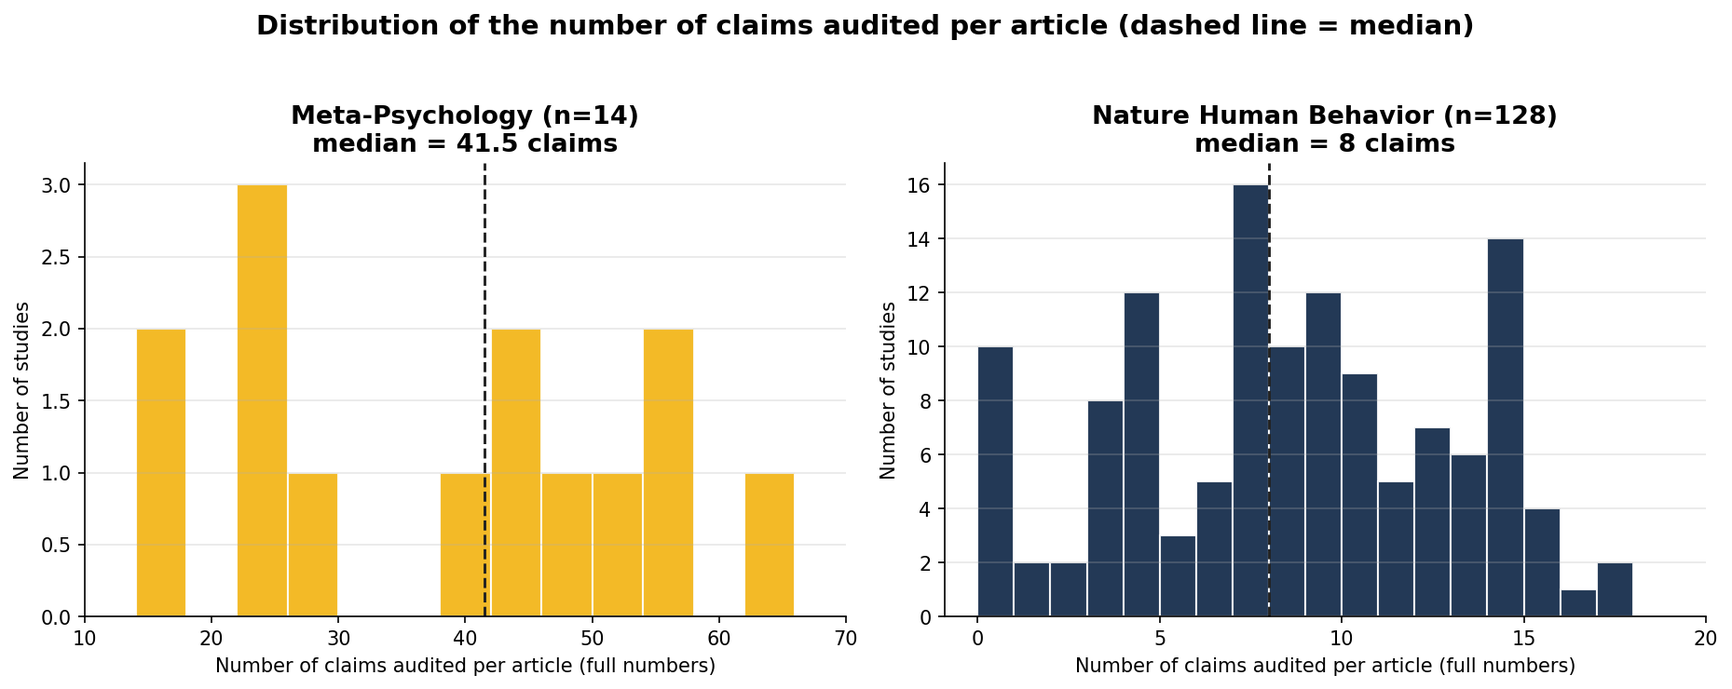
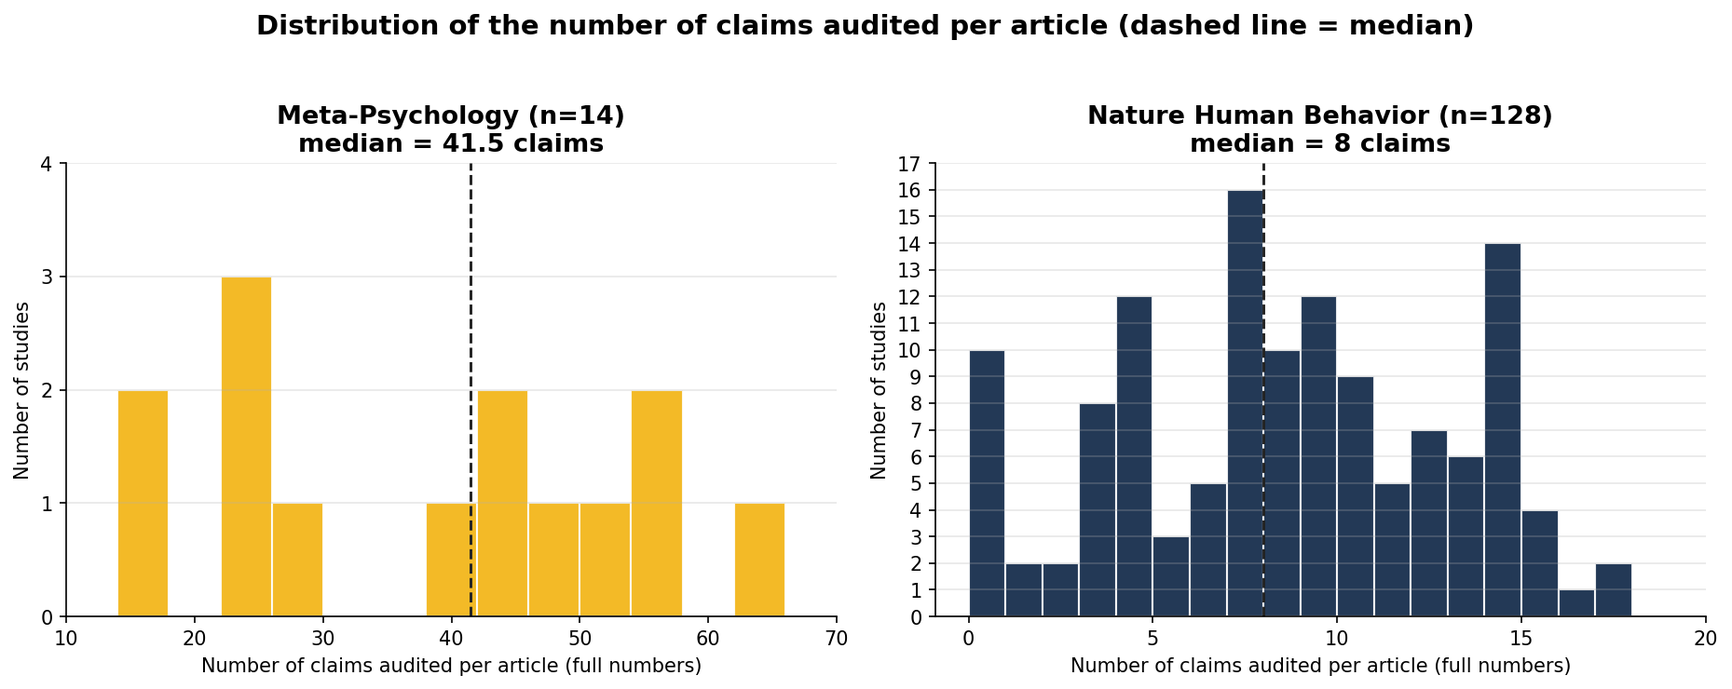
Fix figure numbering; render each study as a rectangle in open-data/outcome unit charts; integer-only y-axis on claims histogram

diff --git a/MetaPsych_vs_NHB_Reproducibility_Comparison_APA7.html b/MetaPsych_vs_NHB_Reproducibility_Comparison_APA7.html
@@ -182,17 +182,17 @@ body { position:relative; }
 <h3>Open data availability</h3>
 <p>Among 14 audited <i>Meta-Psychology</i> studies, 6 carried explicit open-data badges; the remaining studies were simulations for which raw data are not applicable. Among the 128 audited <i>NHB</i> articles, 72 (56%) exposed a direct, machine-downloadable data/code link, 55 (43%) supplied an availability statement without a direct link, and 1 gave no statement.</p>
 <div class="figure"><img src="fig2_open_data.png" alt="Open data availability">
-<p class="figcap"><b>Figure 1.</b> Open data availability by journal, shown as the share (percentage) of audited studies within each journal, with the exact count in parentheses at each bar tip &mdash; this makes the two journals comparable despite the small <i>Meta-Psychology</i> corpus. Note that several <i>Meta-Psychology</i> studies are simulations in which raw data are not applicable, so no-data should not be read as a transparency failure.</p></div>
+<p class="figcap"><b>Figure 2.</b> Open data availability by journal, shown as the share (percentage) of audited studies within each journal, with the exact count in parentheses at each bar tip &mdash; this makes the two journals comparable despite the small <i>Meta-Psychology</i> corpus. Note that several <i>Meta-Psychology</i> studies are simulations in which raw data are not applicable, so no-data should not be read as a transparency failure.</p></div>
 
 <h3>For how many did the check work, and how many had issues or big problems?</h3>
-<p>For <i>Meta-Psychology</i>, where a genuine computational reproduction was possible, 12 studies reproduced near-exactly and 2 reproduced only partially; 0 did not reproduce and 0 hit technical blockers. These are genuinely re-ran analyses, so &ldquo;reproduced&rdquo; is a strong certification; for these <i>Meta-Psychology</i> studies the data and code were available, so any failure falls under the &ldquo;different numbers come out&rdquo; category (partially reproduced or not reproduced) or a technical blocker, rather than &ldquo;data could not be shared.&rdquo; For <i>NHB</i>, the audit established data/code availability rather than re-execution: 72 offered a working direct link (the check usable), 55 offered only a statement (usable data not directly reachable &mdash; an issue), and 1 offered no availability at all (a bigger problem). These <i>NHB</i> cases are predominantly &ldquo;data could not be shared&rdquo; availability barriers; because the <i>NHB</i> check did not re-execute the code, no &ldquo;different numbers come out&rdquo; verdicts are reported for it (Table&nbsp;1). Figure&nbsp;2 contrasts these two outcome schemes.</p>
+<p>For <i>Meta-Psychology</i>, where a genuine computational reproduction was possible, 12 studies reproduced near-exactly and 2 reproduced only partially; 0 did not reproduce and 0 hit technical blockers. These are genuinely re-ran analyses, so &ldquo;reproduced&rdquo; is a strong certification; for these <i>Meta-Psychology</i> studies the data and code were available, so any failure falls under the &ldquo;different numbers come out&rdquo; category (partially reproduced or not reproduced) or a technical blocker, rather than &ldquo;data could not be shared.&rdquo; For <i>NHB</i>, the audit established data/code availability rather than re-execution: 72 offered a working direct link (the check usable), 55 offered only a statement (usable data not directly reachable &mdash; an issue), and 1 offered no availability at all (a bigger problem). These <i>NHB</i> cases are predominantly &ldquo;data could not be shared&rdquo; availability barriers; because the <i>NHB</i> check did not re-execute the code, no &ldquo;different numbers come out&rdquo; verdicts are reported for it (Table&nbsp;1). Figure&nbsp;3 contrasts these two outcome schemes.</p>
 <div class="figure"><img src="fig3_outcomes.png" alt="Outcomes by journal">
-<p class="figcap"><b>Figure 2.</b> Outcomes of the audit for each journal, shown as the share (percentage) of audited studies within each journal with the exact count at each bar tip: for <i>Meta-Psychology</i>, how many reproductions worked (reproduced), partially reproduced, or failed/technical; for <i>NHB</i>, how many articles gave a direct working link, a statement only, or no availability. Because the <i>Meta-Psychology</i> corpus is small (n&nbsp;=&nbsp;14), percentages are reported alongside exact counts so the two are not misleadingly compared.</p></div>
+<p class="figcap"><b>Figure 3.</b> Outcomes of the audit for each journal, shown as the share (percentage) of audited studies within each journal with the exact count at each bar tip: for <i>Meta-Psychology</i>, how many reproductions worked (reproduced), partially reproduced, or failed/technical; for <i>NHB</i>, how many articles gave a direct working link, a statement only, or no availability. Because the <i>Meta-Psychology</i> corpus is small (n&nbsp;=&nbsp;14), percentages are reported alongside exact counts so the two are not misleadingly compared.</p></div>
 
 <h3>Distribution of the number of claims</h3>
-<p>The two audits differ in depth: <i>Meta-Psychology</i> reproductions re-ran shipped code and therefore audited far more claims per article (median&nbsp;41.5; range 16&ndash;65 full claims), whereas the <i>NHB</i> checks verified the key reported numbers against the PDF (median&nbsp;8.0; range 0&ndash;17 full claims). Figure&nbsp;3 shows the distribution of the full (integer) number of claims audited per article for each journal, with the median marked by a dashed line.</p>
+<p>The two audits differ in depth: <i>Meta-Psychology</i> reproductions re-ran shipped code and therefore audited far more claims per article (median&nbsp;41.5; range 16&ndash;65 full claims), whereas the <i>NHB</i> checks verified the key reported numbers against the PDF (median&nbsp;8.0; range 0&ndash;17 full claims). Figure&nbsp;4 shows the distribution of the full (integer) number of claims audited per article for each journal, with the median marked by a dashed line.</p>
 <div class="figure"><img src="fig4_claims_hist.png" alt="Distribution of the number of claims">
-<p class="figcap"><b>Figure 3.</b> Histograms of the number of claims audited per article, for <i>Meta-Psychology</i> (left) and <i>Nature Human Behavior</i> (right), plotted as full numbers with the median indicated by a dashed line. The <i>Meta-Psychology</i> audits re-ran full analyses and consequently audited more claims per article (median&nbsp;41.5) than the <i>NHB</i> verifications (median&nbsp;8.0).</p></div>
+<p class="figcap"><b>Figure 4.</b> Histograms of the number of claims audited per article, for <i>Meta-Psychology</i> (left) and <i>Nature Human Behavior</i> (right), plotted as full numbers with the median indicated by a dashed line. The <i>Meta-Psychology</i> audits re-ran full analyses and consequently audited more claims per article (median&nbsp;41.5) than the <i>NHB</i> verifications (median&nbsp;8.0).</p></div>
 
 <h2 id="discussion">Discussion</h2>
 <p>The scholar-led journal in our sample (<i>Meta-Psychology</i>) performs well on the transparency metrics we measured. Its editorial policies couple publication to the deposition of data and code, and its reproducibility reviews&mdash;which we re-performed here with independent code re-execution&mdash;publicly certify what does and does not reproduce. Of the fourteen re-audited articles, twelve reproduced near-exactly and two reproduced only partially, underscoring that the mandated openness plus re-execution (here by a deep LLM) makes verification concrete, while confirming that genuinely independent re-execution remains the gold standard.</p>
@@ -203,9 +203,9 @@ body { position:relative; }
 
 <h2 id="results-s2">Study 2: Citation and Cost Analyses</h2>
 <h3>Citing behaviour (OpenAlex)</h3>
-<p>We complemented the reproducibility audit with a bibliometric and cost analysis across the same 14 <i>Meta-Psychology</i> and 128 <i>NHB</i> studies (Study&nbsp;2). Citation counts were retrieved from the OpenAlex scholarly database for each audited article by its DOI (OpenAlex, 2026). Across the audited studies, <i>NHB</i> is far more cited than <i>Meta-Psychology</i>: its articles accrued 16716 citations in total (median&nbsp;83.5), versus 276 (median&nbsp;10.0) for <i>Meta-Psychology</i>. Figure&nbsp;4 compares the citation distributions (on a symlog scale) between the two journals overall and broken down by audit outcome. Citation counts do not track the reproducibility ranking we observed in Study&nbsp;1: the journal with the stronger reproducibility practices is the one with far fewer citations, and within each journal citation numbers are broadly similar across reproducibility outcomes.</p>
+<p>We complemented the reproducibility audit with a bibliometric and cost analysis across the same 14 <i>Meta-Psychology</i> and 128 <i>NHB</i> studies (Study&nbsp;2). Citation counts were retrieved from the OpenAlex scholarly database for each audited article by its DOI (OpenAlex, 2026). Across the audited studies, <i>NHB</i> is far more cited than <i>Meta-Psychology</i>: its articles accrued 16716 citations in total (median&nbsp;83.5), versus 276 (median&nbsp;10.0) for <i>Meta-Psychology</i>. Figure&nbsp;5 compares the citation distributions (on a symlog scale) between the two journals overall and broken down by audit outcome. Citation counts do not track the reproducibility ranking we observed in Study&nbsp;1: the journal with the stronger reproducibility practices is the one with far fewer citations, and within each journal citation numbers are broadly similar across reproducibility outcomes.</p>
 <div class="figure"><img src="fig5_citations.png" alt="Citations by journal and outcome">
-<p class="figcap"><b>Figure 4.</b> Citation numbers (OpenAlex), shown on a symlog scale. Left: overall comparison between <i>Meta-Psychology</i> and <i>NHB</i>. Middle: <i>Meta-Psychology</i> citations split by audit outcome. Right: <i>NHB</i> citations split by data-availability outcome. Dashed labels give each group&rsquo;s median.</p></div>
+<p class="figcap"><b>Figure 5.</b> Citation numbers (OpenAlex), shown on a symlog scale. Left: overall comparison between <i>Meta-Psychology</i> and <i>NHB</i>. Middle: <i>Meta-Psychology</i> citations split by audit outcome. Right: <i>NHB</i> citations split by data-availability outcome. Dashed labels give each group&rsquo;s median.</p></div>
 <p>To characterise the 56 <i>NHB</i> articles whose data/code were not directly available (the 55 &ldquo;statement only&rdquo; plus the 1 with no statement), Table&nbsp;1 lists each one with the reason recorded in its audit. We distinguish two conceptually different reasons a study may not be reproducible: (a)&nbsp;<b>data or code could not be shared</b> &mdash; an availability barrier, where the material exists but is not directly reachable or obtainable; and (b)&nbsp;<b>different numbers come out</b> &mdash; a numerical failure, where, despite available data and code, re-execution yields different results from those reported. These are different problems with different remedies.</p>
 <table id="naTable">
 <thead><tr><th>Year</th><th>Study</th><th>Title</th><th>DOI</th><th>Availability</th><th>Reason (from audit)</th></tr></thead>

diff --git a/_build_final_report.py b/_build_final_report.py
@@ -368,17 +368,17 @@ body { position:relative; }
 <h3>Open data availability</h3>
 <p>Among @MPA@ audited <i>Meta-Psychology</i> studies, @@MPOD@@ carried explicit open-data badges; the remaining studies were simulations for which raw data are not applicable. Among the @NHBFT@ audited <i>NHB</i> articles, @@NHBP3@@ (@@NHBP3PCT@@%) exposed a direct, machine-downloadable data/code link, @@NHBP2@@ (@@NHBP2PCT@@%) supplied an availability statement without a direct link, and @@NHBP1@@ gave no statement.</p>
 <div class="figure"><img src="fig2_open_data.png" alt="Open data availability">
-<p class="figcap"><b>Figure 1.</b> Open data availability by journal, shown as the share (percentage) of audited studies within each journal, with the exact count in parentheses at each bar tip &mdash; this makes the two journals comparable despite the small <i>Meta-Psychology</i> corpus. Note that several <i>Meta-Psychology</i> studies are simulations in which raw data are not applicable, so no-data should not be read as a transparency failure.</p></div>
+<p class="figcap"><b>Figure 2.</b> Open data availability by journal, shown as the share (percentage) of audited studies within each journal, with the exact count in parentheses at each bar tip &mdash; this makes the two journals comparable despite the small <i>Meta-Psychology</i> corpus. Note that several <i>Meta-Psychology</i> studies are simulations in which raw data are not applicable, so no-data should not be read as a transparency failure.</p></div>
 
 <h3>For how many did the check work, and how many had issues or big problems?</h3>
-<p>For <i>Meta-Psychology</i>, where a genuine computational reproduction was possible, @MPOK@ studies reproduced near-exactly and @MPPAR@ reproduced only partially; @MPFAIL@ did not reproduce and @MPTECH@ hit technical blockers. These are genuinely re-ran analyses, so &ldquo;reproduced&rdquo; is a strong certification; for these <i>Meta-Psychology</i> studies the data and code were available, so any failure falls under the &ldquo;different numbers come out&rdquo; category (partially reproduced or not reproduced) or a technical blocker, rather than &ldquo;data could not be shared.&rdquo; For <i>NHB</i>, the audit established data/code availability rather than re-execution: @NHBP3@ offered a working direct link (the check usable), @NHBP2@ offered only a statement (usable data not directly reachable &mdash; an issue), and @NHBP1@ offered no availability at all (a bigger problem). These <i>NHB</i> cases are predominantly &ldquo;data could not be shared&rdquo; availability barriers; because the <i>NHB</i> check did not re-execute the code, no &ldquo;different numbers come out&rdquo; verdicts are reported for it (Table&nbsp;1). Figure&nbsp;2 contrasts these two outcome schemes.</p>
+<p>For <i>Meta-Psychology</i>, where a genuine computational reproduction was possible, @MPOK@ studies reproduced near-exactly and @MPPAR@ reproduced only partially; @MPFAIL@ did not reproduce and @MPTECH@ hit technical blockers. These are genuinely re-ran analyses, so &ldquo;reproduced&rdquo; is a strong certification; for these <i>Meta-Psychology</i> studies the data and code were available, so any failure falls under the &ldquo;different numbers come out&rdquo; category (partially reproduced or not reproduced) or a technical blocker, rather than &ldquo;data could not be shared.&rdquo; For <i>NHB</i>, the audit established data/code availability rather than re-execution: @NHBP3@ offered a working direct link (the check usable), @NHBP2@ offered only a statement (usable data not directly reachable &mdash; an issue), and @NHBP1@ offered no availability at all (a bigger problem). These <i>NHB</i> cases are predominantly &ldquo;data could not be shared&rdquo; availability barriers; because the <i>NHB</i> check did not re-execute the code, no &ldquo;different numbers come out&rdquo; verdicts are reported for it (Table&nbsp;1). Figure&nbsp;3 contrasts these two outcome schemes.</p>
 <div class="figure"><img src="fig3_outcomes.png" alt="Outcomes by journal">
-<p class="figcap"><b>Figure 2.</b> Outcomes of the audit for each journal, shown as the share (percentage) of audited studies within each journal with the exact count at each bar tip: for <i>Meta-Psychology</i>, how many reproductions worked (reproduced), partially reproduced, or failed/technical; for <i>NHB</i>, how many articles gave a direct working link, a statement only, or no availability. Because the <i>Meta-Psychology</i> corpus is small (n&nbsp;=&nbsp;14), percentages are reported alongside exact counts so the two are not misleadingly compared.</p></div>
+<p class="figcap"><b>Figure 3.</b> Outcomes of the audit for each journal, shown as the share (percentage) of audited studies within each journal with the exact count at each bar tip: for <i>Meta-Psychology</i>, how many reproductions worked (reproduced), partially reproduced, or failed/technical; for <i>NHB</i>, how many articles gave a direct working link, a statement only, or no availability. Because the <i>Meta-Psychology</i> corpus is small (n&nbsp;=&nbsp;14), percentages are reported alongside exact counts so the two are not misleadingly compared.</p></div>
 
 <h3>Distribution of the number of claims</h3>
-<p>The two audits differ in depth: <i>Meta-Psychology</i> reproductions re-ran shipped code and therefore audited far more claims per article (median&nbsp;@@MPCLAIMS_MED@@; range @@MPCLAIMS_MIN@@&ndash;@@MPCLAIMS_MAX@@ full claims), whereas the <i>NHB</i> checks verified the key reported numbers against the PDF (median&nbsp;@@NHBCLAIMS_MED@@; range @@NHBCLAIMS_MIN@@&ndash;@@NHBCLAIMS_MAX@@ full claims). Figure&nbsp;3 shows the distribution of the full (integer) number of claims audited per article for each journal, with the median marked by a dashed line.</p>
+<p>The two audits differ in depth: <i>Meta-Psychology</i> reproductions re-ran shipped code and therefore audited far more claims per article (median&nbsp;@@MPCLAIMS_MED@@; range @@MPCLAIMS_MIN@@&ndash;@@MPCLAIMS_MAX@@ full claims), whereas the <i>NHB</i> checks verified the key reported numbers against the PDF (median&nbsp;@@NHBCLAIMS_MED@@; range @@NHBCLAIMS_MIN@@&ndash;@@NHBCLAIMS_MAX@@ full claims). Figure&nbsp;4 shows the distribution of the full (integer) number of claims audited per article for each journal, with the median marked by a dashed line.</p>
 <div class="figure"><img src="fig4_claims_hist.png" alt="Distribution of the number of claims">
-<p class="figcap"><b>Figure 3.</b> Histograms of the number of claims audited per article, for <i>Meta-Psychology</i> (left) and <i>Nature Human Behavior</i> (right), plotted as full numbers with the median indicated by a dashed line. The <i>Meta-Psychology</i> audits re-ran full analyses and consequently audited more claims per article (median&nbsp;@@MPCLAIMS_MED@@) than the <i>NHB</i> verifications (median&nbsp;@@NHBCLAIMS_MED@@).</p></div>
+<p class="figcap"><b>Figure 4.</b> Histograms of the number of claims audited per article, for <i>Meta-Psychology</i> (left) and <i>Nature Human Behavior</i> (right), plotted as full numbers with the median indicated by a dashed line. The <i>Meta-Psychology</i> audits re-ran full analyses and consequently audited more claims per article (median&nbsp;@@MPCLAIMS_MED@@) than the <i>NHB</i> verifications (median&nbsp;@@NHBCLAIMS_MED@@).</p></div>
 
 <h2 id="discussion">Discussion</h2>
 <p>The scholar-led journal in our sample (<i>Meta-Psychology</i>) performs well on the transparency metrics we measured. Its editorial policies couple publication to the deposition of data and code, and its reproducibility reviews&mdash;which we re-performed here with independent code re-execution&mdash;publicly certify what does and does not reproduce. Of the fourteen re-audited articles, twelve reproduced near-exactly and two reproduced only partially, underscoring that the mandated openness plus re-execution (here by a deep LLM) makes verification concrete, while confirming that genuinely independent re-execution remains the gold standard.</p>
@@ -389,9 +389,9 @@ body { position:relative; }
 
 <h2 id="results-s2">Study 2: Citation and Cost Analyses</h2>
 <h3>Citing behaviour (OpenAlex)</h3>
-<p>We complemented the reproducibility audit with a bibliometric and cost analysis across the same @@MPA@@ <i>Meta-Psychology</i> and @@NHBFT@@ <i>NHB</i> studies (Study&nbsp;2). Citation counts were retrieved from the OpenAlex scholarly database for each audited article by its DOI (OpenAlex, 2026). Across the audited studies, <i>NHB</i> is far more cited than <i>Meta-Psychology</i>: its articles accrued @@NHBCSUM@@ citations in total (median&nbsp;@@NHBCMED@@), versus @@MPCSUM@@ (median&nbsp;@@MPCMED@@) for <i>Meta-Psychology</i>. Figure&nbsp;4 compares the citation distributions (on a symlog scale) between the two journals overall and broken down by audit outcome. Citation counts do not track the reproducibility ranking we observed in Study&nbsp;1: the journal with the stronger reproducibility practices is the one with far fewer citations, and within each journal citation numbers are broadly similar across reproducibility outcomes.</p>
+<p>We complemented the reproducibility audit with a bibliometric and cost analysis across the same @@MPA@@ <i>Meta-Psychology</i> and @@NHBFT@@ <i>NHB</i> studies (Study&nbsp;2). Citation counts were retrieved from the OpenAlex scholarly database for each audited article by its DOI (OpenAlex, 2026). Across the audited studies, <i>NHB</i> is far more cited than <i>Meta-Psychology</i>: its articles accrued @@NHBCSUM@@ citations in total (median&nbsp;@@NHBCMED@@), versus @@MPCSUM@@ (median&nbsp;@@MPCMED@@) for <i>Meta-Psychology</i>. Figure&nbsp;5 compares the citation distributions (on a symlog scale) between the two journals overall and broken down by audit outcome. Citation counts do not track the reproducibility ranking we observed in Study&nbsp;1: the journal with the stronger reproducibility practices is the one with far fewer citations, and within each journal citation numbers are broadly similar across reproducibility outcomes.</p>
 <div class="figure"><img src="fig5_citations.png" alt="Citations by journal and outcome">
-<p class="figcap"><b>Figure 4.</b> Citation numbers (OpenAlex), shown on a symlog scale. Left: overall comparison between <i>Meta-Psychology</i> and <i>NHB</i>. Middle: <i>Meta-Psychology</i> citations split by audit outcome. Right: <i>NHB</i> citations split by data-availability outcome. Dashed labels give each group&rsquo;s median.</p></div>
+<p class="figcap"><b>Figure 5.</b> Citation numbers (OpenAlex), shown on a symlog scale. Left: overall comparison between <i>Meta-Psychology</i> and <i>NHB</i>. Middle: <i>Meta-Psychology</i> citations split by audit outcome. Right: <i>NHB</i> citations split by data-availability outcome. Dashed labels give each group&rsquo;s median.</p></div>
 <p>To characterise the @@NHBNA@@ <i>NHB</i> articles whose data/code were not directly available (the 55 &ldquo;statement only&rdquo; plus the 1 with no statement), Table&nbsp;1 lists each one with the reason recorded in its audit. We distinguish two conceptually different reasons a study may not be reproducible: (a)&nbsp;<b>data or code could not be shared</b> &mdash; an availability barrier, where the material exists but is not directly reachable or obtainable; and (b)&nbsp;<b>different numbers come out</b> &mdash; a numerical failure, where, despite available data and code, re-execution yields different results from those reported. These are different problems with different remedies.</p>
 <table id="naTable">
 <thead><tr><th>Year</th><th>Study</th><th>Title</th><th>DOI</th><th>Availability</th><th>Reason (from audit)</th></tr></thead>

diff --git a/_build_figs_v2.py b/_build_figs_v2.py
@@ -33,6 +33,40 @@ NHB_C = "#0b2344"
 OK="#2e7d32"; PAR="#f9a825"; BAD="#c62828"; TECH="#ef6c00"
 
 
+# ---- unit-chart helper: one rectangle per study ----
+def unit_chart(ax, cats, vals, colors, square=0.88, per_row=16, gap=0.15):
+    x0, y0 = 0.5, 0.5
+    ci = 0  # current cat index
+    placed = [0]*len(cats)
+    def col_of(k):
+        return colors[k]
+    # rectangles
+    import matplotlib.patches as mpatches
+    for k in range(len(cats)):
+        n = int(vals[k])
+        for i in range(n):
+            r = placed[k]
+            xx = x0 + (r % per_row)*(square+gap)
+            yy = y0 + (r // per_row)*(square+gap)
+            rect = mpatches.Rectangle((xx,yy), square, square, facecolor=col_of(k),
+                                      edgecolor="white", linewidth=0.6, alpha=0.92)
+            ax.add_patch(rect)
+            placed[k]+=1
+    rows = int(max((v-1)//per_row for v in vals if v) + 1) if any(vals) else 1
+    ax.set_xlim(0, x0+per_row*(square+gap))
+    ax.set_ylim(0, y0+rows*(square+gap))
+    ax.set_aspect("equal")
+    ax.axis("off")
+
+def unit_legend(ax, entries):
+    import matplotlib.patches as mpatches
+    handles=[]
+    for label,color in entries:
+        handles.append(mpatches.Patch(facecolor=color, edgecolor="white", label=label))
+    ax.legend(handles=handles, loc="upper left", bbox_to_anchor=(0,0),
+              frameon=False, fontsize=10)
+
+
 # ============================================================ Figure 1: funnel
 fig, axes = plt.subplots(1,2, figsize=(12,5.2))
 for ax,(name,c_fun,stages) in zip(axes,
@@ -51,51 +85,49 @@ fig.suptitle("Audit funnel: how many articles existed, were empirical, and could
 fig.tight_layout(rect=[0,0,1,0.95])
 fig.savefig(os.path.join(OUT,"fig1_funnel.png"), dpi=150, bbox_inches="tight"); plt.close(fig)
 
-# ============================================================ Figure 2: open data (percentage)
+# ============================================================ Figure 2: open data (unit chart, one rectangle per study)
 mp_od = sum(1 for s in mp_aud if str(s.get("open_data","")).lower() in ("yes","y"))
 mp_od_na = len(mp_aud)-mp_od
-def pct_txt(count, denom):
-    return f"{count}\n({round(100*count/denom)}%)"
-fig, ax = plt.subplots(figsize=(9.5,5))
-cats=["Open data present","Data N/A (simulation)","Statement only","No availability"]
-mp_vals=[mp_od, mp_od_na, 0, 0]
-nhb_vals=[nhb_p3, 0, nhb_p2, nhb_p1]
-x=np.arange(len(cats)); w=0.38
-b1=ax.bar(x-w/2, [100*v/len(mp_aud) for v in mp_vals], w, label="Meta-Psychology (audited, n=%d)"%len(mp_aud), color=MP_C)
-b2=ax.bar(x+w/2, [100*v/len(nhb_ft) for v in nhb_vals], w, label="NHB (full-text audited, n=%d)"%len(nhb_ft), color=NHB_C)
-for i,(v1,v2) in enumerate(zip(mp_vals,nhb_vals)):
-    if v1>0: ax.annotate(pct_txt(v1,len(mp_aud)), (i-w/2, 100*v1/len(mp_aud)+1.5), ha="center", fontsize=9, fontweight="bold", color="#8a6d00")
-    if v2>0: ax.annotate(pct_txt(v2,len(nhb_ft)), (i+w/2, 100*v2/len(nhb_ft)+1.5), ha="center", fontsize=9, fontweight="bold", color=NHB_C)
-ax.set_xticks(x); ax.set_xticklabels(cats, fontsize=10)
-ax.set_ylabel("Percentage of audited studies (%)"); ax.set_ylim(0,100)
-ax.set_title("Open data availability by journal (share of audited studies)", fontsize=13, fontweight="bold")
-ax.legend(); ax.grid(axis="y", alpha=0.3); ax.spines[['top','right']].set_visible(False)
-fig.tight_layout(); fig.savefig(os.path.join(OUT,"fig2_open_data.png"), dpi=150, bbox_inches="tight"); plt.close(fig)
+fig, axes = plt.subplots(1,2, figsize=(14,5), gridspec_kw={"width_ratios":[1,1]})
+# meta-psychology
+ax=axes[0]
+cats=["Open data","Data N/A (sim.)"]
+vals=[mp_od, mp_od_na]
+cols=[OK,"#b0bec5"]
+unit_chart(ax, cats, vals, cols, per_row=10)
+ax.set_title(f"Meta-Psychology open data (n={len(mp_aud)})\nOpen data present: {mp_od} ({round(100*mp_od/len(mp_aud))}%)", fontsize=12, fontweight="bold")
+unit_legend(ax, list(zip([f"Open data ({mp_od})","Data N/A (simulation) ({mp_od_na})"],cols)))
+# nhb
+ax=axes[1]
+cats=["Direct link","Statement only","No avail."]
+vals=[nhb_p3, nhb_p2, nhb_p1]
+cols=[OK,PAR,BAD]
+unit_chart(ax, cats, vals, cols, per_row=16)
+ax.set_title(f"Nature Human Behavior data availability (n={len(nhb_ft)})\nDirect: {nhb_p3} ({nhb_p3pct}%) · Stmt: {nhb_p2} ({nhb_p2pct}%) · None: {nhb_p1}", fontsize=12, fontweight="bold")
+unit_legend(ax, list(zip([f"Direct data/code link ({nhb_p3})","Statement only ({nhb_p2})","No availability ({nhb_p1})"],cols)))
+fig.suptitle("Open data availability by journal — each small square is one audited study", fontsize=13, fontweight="bold")
+fig.tight_layout(rect=[0.02,0.05,1,0.93]); fig.savefig(os.path.join(OUT,"fig2_open_data.png"), dpi=150, bbox_inches="tight"); plt.close(fig)
 
-# ============================================================ Figure 3: outcomes (percentage)
-fig, axes = plt.subplots(1,2, figsize=(12.5,5))
+# ============================================================ Figure 3: outcomes (unit chart, one rectangle per study)
+fig, axes = plt.subplots(1,2, figsize=(15,5.5), gridspec_kw={"width_ratios":[1,1]})
 ax=axes[0]
 cats=["Reproduced","Partially","Not\nreproduced","Technical"]
 mp_vals=[mp_ok, mp_par+mp_na, mp_bad, mp_tech]
 cols=[OK,PAR,BAD,TECH]
-vals_p=[100*v/len(mp_aud) for v in mp_vals]
-b=ax.bar(cats, vals_p, color=cols, alpha=0.9)
-for i,v,raw in zip(range(len(cats)),vals_p,mp_vals):
-    if raw>0: ax.annotate(pct_txt(raw,len(mp_aud)), (i, v+1.2), ha="center", fontsize=10, fontweight="bold")
-ax.set_title("Meta-Psychology outcomes (n=%d)"%len(mp_aud), fontsize=12, fontweight="bold")
-ax.set_ylim(0,105); ax.set_ylabel("Percentage of audited studies (%)"); ax.grid(axis="y", alpha=0.3); ax.spines[['top','right']].set_visible(False)
+unit_chart(ax, cats, mp_vals, cols, per_row=10)
+ax.set_title(f"Meta-Psychology outcomes (n={len(mp_aud)})\nReproduced: {mp_ok} · Partial: {mp_par+mp_na} · Not reprod.: {mp_bad} · Technical: {mp_tech}", fontsize=12, fontweight="bold")
+unit_legend(ax, list(zip(["Reproduced","Partially reproduced","Not reproduced","Technical failure"],
+                         [OK,PAR,BAD,TECH])) + [(f"({mp_ok}/{mp_par+mp_na}/{mp_bad}/{mp_tech})", "#ffffff")])
 ax=axes[1]
 cats=["Direct\nlink","Statement\nonly","No\navailability"]
 nhb_vals=[nhb_p3, nhb_p2, nhb_p1]
 cols=[OK,PAR,BAD]
-vals_p=[100*v/len(nhb_ft) for v in nhb_vals]
-b=ax.bar(cats, vals_p, color=cols, alpha=0.9)
-for i,v,raw in zip(range(len(cats)),vals_p,nhb_vals):
-    if raw>0: ax.annotate(pct_txt(raw,len(nhb_ft)), (i, v+1.2), ha="center", fontsize=10, fontweight="bold")
-ax.set_title("Nature Human Behavior availability outcome (n=%d)"%len(nhb_ft), fontsize=12, fontweight="bold")
-ax.set_ylim(0,105); ax.set_ylabel("Percentage of articles (%)"); ax.grid(axis="y", alpha=0.3); ax.spines[['top','right']].set_visible(False)
-fig.suptitle("For how many did the check work, and how many had issues or big problems? (share of audited studies)", fontsize=13, fontweight="bold")
-fig.tight_layout(rect=[0,0,1,0.95]); fig.savefig(os.path.join(OUT,"fig3_outcomes.png"), dpi=150, bbox_inches="tight"); plt.close(fig)
+unit_chart(ax, cats, nhb_vals, cols, per_row=18)
+ax.set_title(f"Nature Human Behavior availability outcome (n={len(nhb_ft)})\nDirect: {nhb_p3} ({nhb_p3pct}%) · Stmt: {nhb_p2} ({nhb_p2pct}%) · None: {nhb_p1}", fontsize=12, fontweight="bold")
+unit_legend(ax, list(zip(["Direct data/code link","Statement only","No availability"],
+                         [OK,PAR,BAD])) + [(f"({nhb_p3}/{nhb_p2}/{nhb_p1})", "#ffffff")])
+fig.suptitle("For how many did the check work, and how many had issues? — each small square is one audited study", fontsize=13, fontweight="bold")
+fig.tight_layout(rect=[0.02,0.05,1,0.93]); fig.savefig(os.path.join(OUT,"fig3_outcomes.png"), dpi=150, bbox_inches="tight"); plt.close(fig)
 
 # ============================================================ Figure 4: claims histograms (integers + medians)
 fig, axes = plt.subplots(1,2, figsize=(12.5,5))
@@ -113,6 +145,12 @@ for ax, vals, name, color, bins in panels:
     ticks = [t for t in ax.get_xticks() if float(t).is_integer()]
     ax.set_xticks(ticks)
     ax.set_xlabel("Number of claims audited per article (full numbers)"); ax.set_ylabel("Number of studies")
+    # force integer-only y ticks (no fractional 'Number of studies' values)
+    ymax = ax.get_ylim()[1]
+    yticks = np.arange(0, ymax+1).astype(int)
+    if yticks[-1] < ymax:
+        yticks = np.append(yticks, int(np.ceil(ymax)))
+    ax.set_yticks(yticks)
     ax.grid(axis="y", alpha=0.3); ax.spines[['top','right']].set_visible(False)
 fig.suptitle("Distribution of the number of claims audited per article (dashed line = median)", fontsize=14, fontweight="bold")
 fig.tight_layout(rect=[0,0,1,0.95]); fig.savefig(os.path.join(OUT,"fig4_claims_hist.png"), dpi=150, bbox_inches="tight"); plt.close(fig)
